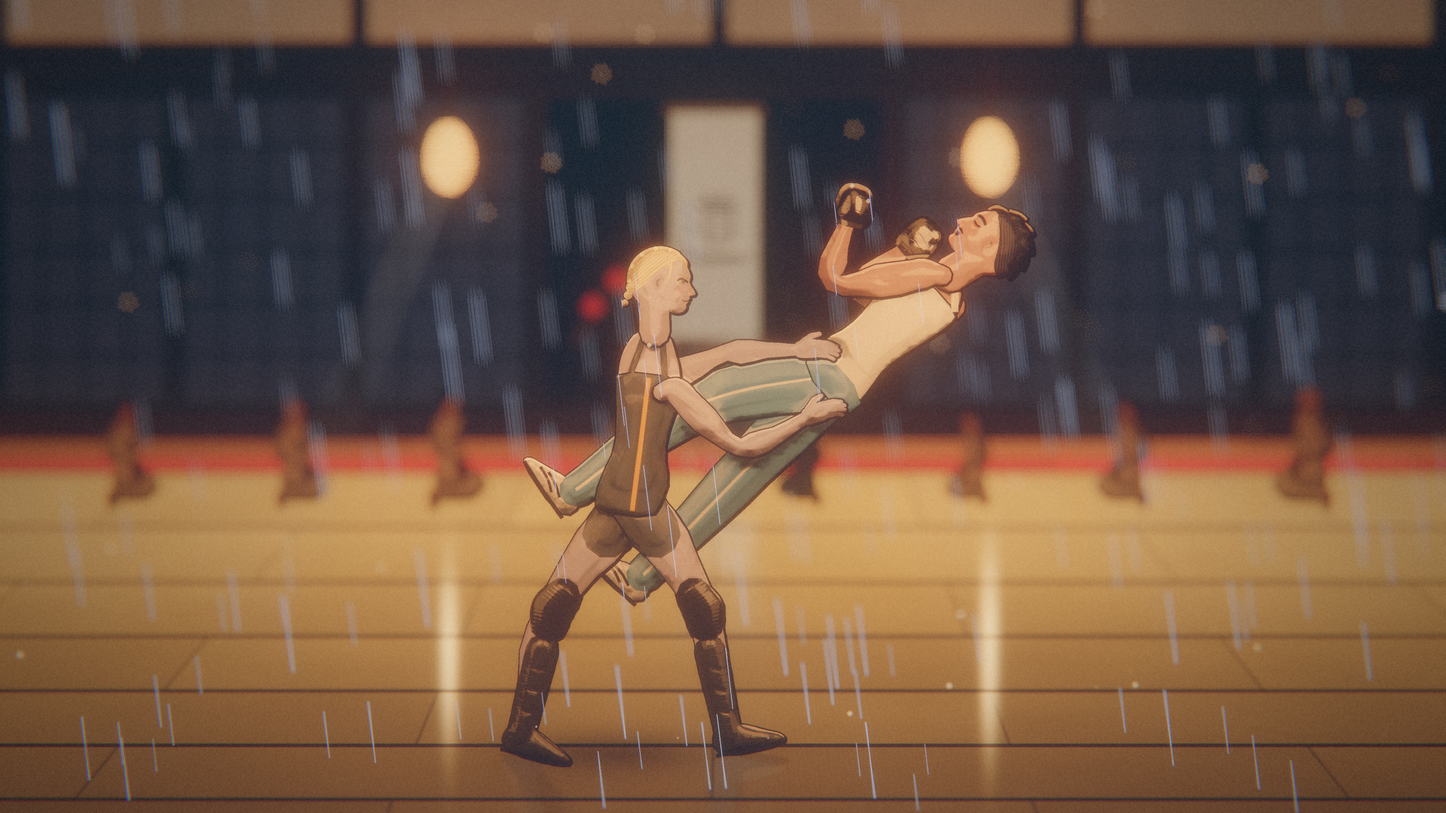
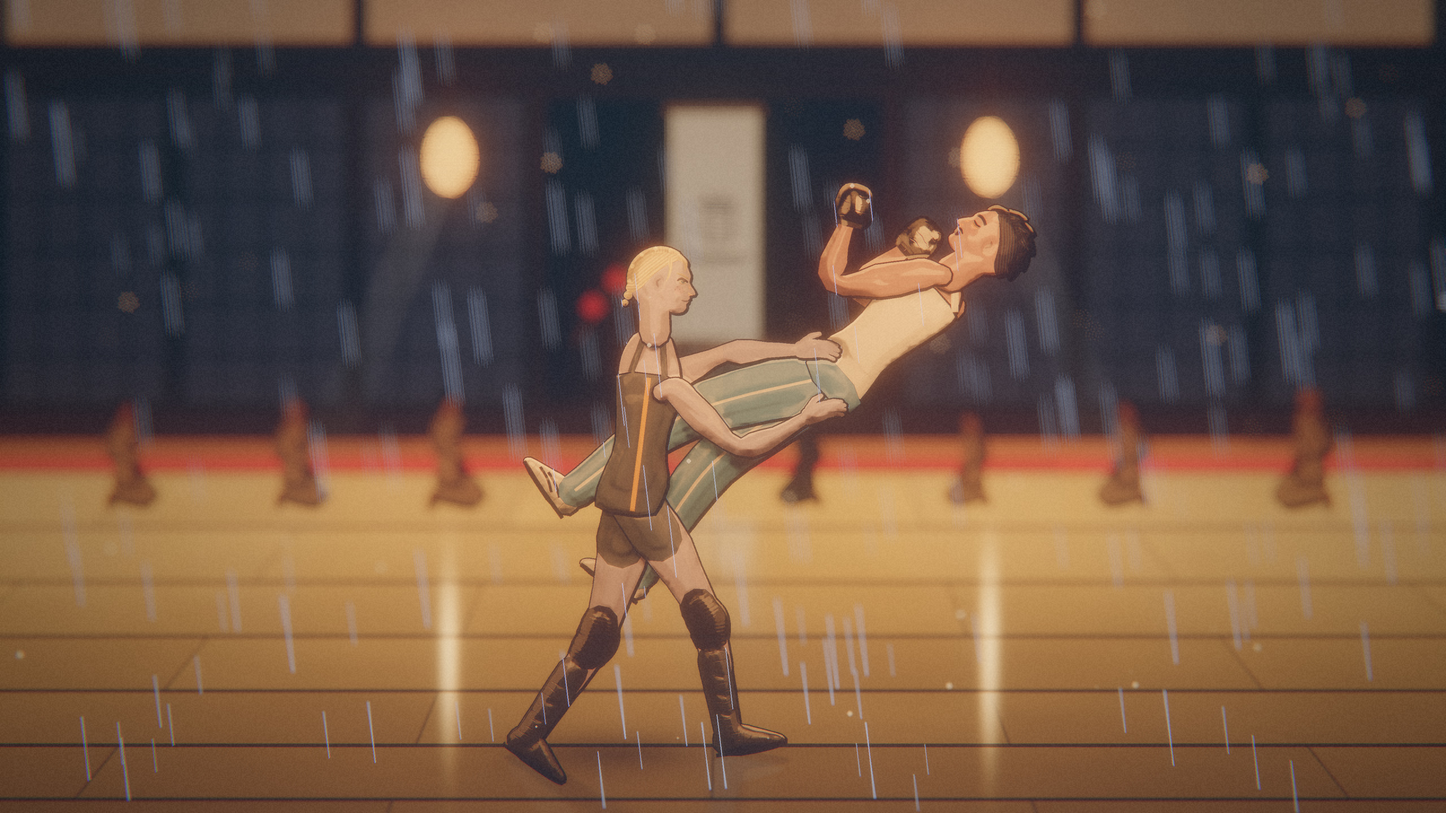
Piernas con huesos fijos: cinemática inversa también en muslo y pierna
- El esqueleto de poses estiraba las piernas a voluntad (muslo de 31 a 66 cm,
  pierna de 30 a 70: 135 cm de pierna en la patada alta). Ahora cada pierna se
  resuelve con dos huesos de la longitud que tiene en la guardia de cada
  luchador. La rodilla dobla siempre hacia delante o hacia arriba (nunca hacia
  atrás); si el pie no llega, la pierna se estira hasta un 20 % y el pie se
  queda donde alcanza. De pie, el pie no se mueve.
- Perneras, hakama, botas y pies usan las articulaciones corregidas.
- Carteles regenerados en 4K.

Claude-Session: https://claude.ai/code/session_01GCEmTRu6hx8Pncz6RpNkUS

diff --git a/tatamido/render_fighter.py b/tatamido/render_fighter.py
@@ -19,7 +19,7 @@ from .anatomy import BODIES, LOOKS, SPINE_T
 from .camera import Camera
 from .config import *
 from .fighter import Fighter
-from .poses import fighter_pose
+from .poses import fighter_pose, stance as _stance
 
 LIGHT = (-0.72, -0.69)          # dirección de la luz en pantalla: de los shōji, arriba a la izquierda
 OUTLINE = (16, 11, 9)
@@ -752,6 +752,41 @@ def _expression(f, look):
     return "sonrisa" if e in ("sonrisa", "picara") else "neutra"
 
 
+_LEGS: Dict[str, Tuple[float, float]] = {}
+
+
+def _leg_lengths(fd):
+    """Muslo y pierna (rodilla → apoyo del pie) de cada luchador, medidos en su guardia."""
+    key = fd["id"]
+    if key not in _LEGS:
+        try:
+            p = _stance(fd)
+            d = lambda a, b: math.hypot(b[0] - a[0], b[1] - a[1])
+            _LEGS[key] = ((d(p["hip"], p["kn_l"]) + d(p["hip"], p["kn_r"])) / 2, (d(p["kn_l"], p["ft_l"]) + d(p["kn_r"], p["ft_r"])) / 2)
+        except Exception:
+            _LEGS[key] = (46.0, 48.0)
+    return _LEGS[key]
+
+
+def _leg_ik(H, ft0, T, S, front, up, stretch=1.2):
+    """Pierna de dos huesos fijos hacia el pie que pide la pose. La rodilla dobla siempre hacia delante (o hacia
+    arriba en las patadas), nunca hacia atrás; si el pie no llega, la pierna se estira hasta un 20 % (estirón de
+    animación) y el pie se queda donde alcanza. Con el pie en el suelo y la pierna casi recta, el pie no se mueve."""
+    dx, dy = ft0[0] - H[0], ft0[1] - H[1]
+    D = math.hypot(dx, dy) or 1e-6
+    ux, uy = dx / D, dy / D
+    k = clamp(D / ((T + S) * 0.985), 1.0, stretch)
+    T, S = T * k, S * k
+    D = clamp(D, abs(T - S) + 2.0, (T + S) * 0.995)
+    ft = (H[0] + ux * D, H[1] + uy * D)
+    a = (T * T + D * D - S * S) / (2 * D)
+    h = math.sqrt(max(0.0, T * T - a * a))
+    px, py = -uy, ux
+    score = lambda qx, qy: qx * front[0] + qy * front[1] + 0.5 * (qx * up[0] + qy * up[1])
+    sg = 1.0 if score(px, py) >= score(-px, -py) else -1.0
+    return (H[0] + ux * a + px * h * sg, H[1] + uy * a + py * h * sg), ft
+
+
 def build_figure(f, pose, rig, mono=False, raw=False) -> Figure:
     fd = f.fd
     lk = LOOKS[fd["id"]]
@@ -845,6 +880,13 @@ def build_figure(f, pose, rig, mono=False, raw=False) -> Figure:
         back = [(0.0, r0 + bag), (uk * 0.55, (r0 + rk) * 0.5 + bag * 1.4), (uk, rk + bag), (1.0, r1)]
         front = [(0.0, r0), (uk * 0.6, (r0 + rk) * 0.5 - 0.3), (uk, rk + 0.4), (1.0, r1)]
         return back, front
+
+    # piernas de huesos fijos: el esqueleto de poses estira muslo y pierna a voluntad (de 31 a 66 cm el muslo,
+    # de 30 a 70 la pierna: 135 cm de pierna en la patada alta); aquí miden lo que en la guardia de cada uno
+    T_, S_ = _leg_lengths(fd)
+    ux_, uy_ = _norm(Cc[0] - H[0], Cc[1] - H[1])
+    for side in ("l", "r"):
+        J["kn_" + side], J["ft_" + side] = _leg_ik(H, J["ft_" + side], T_, S_, (-uy_, ux_), (ux_, uy_))
 
     for side, g, depth in (("l", 1, 0.84), ("r", 3, 1.0)):
         kn, ft = J["kn_" + side], J["ft_" + side]
